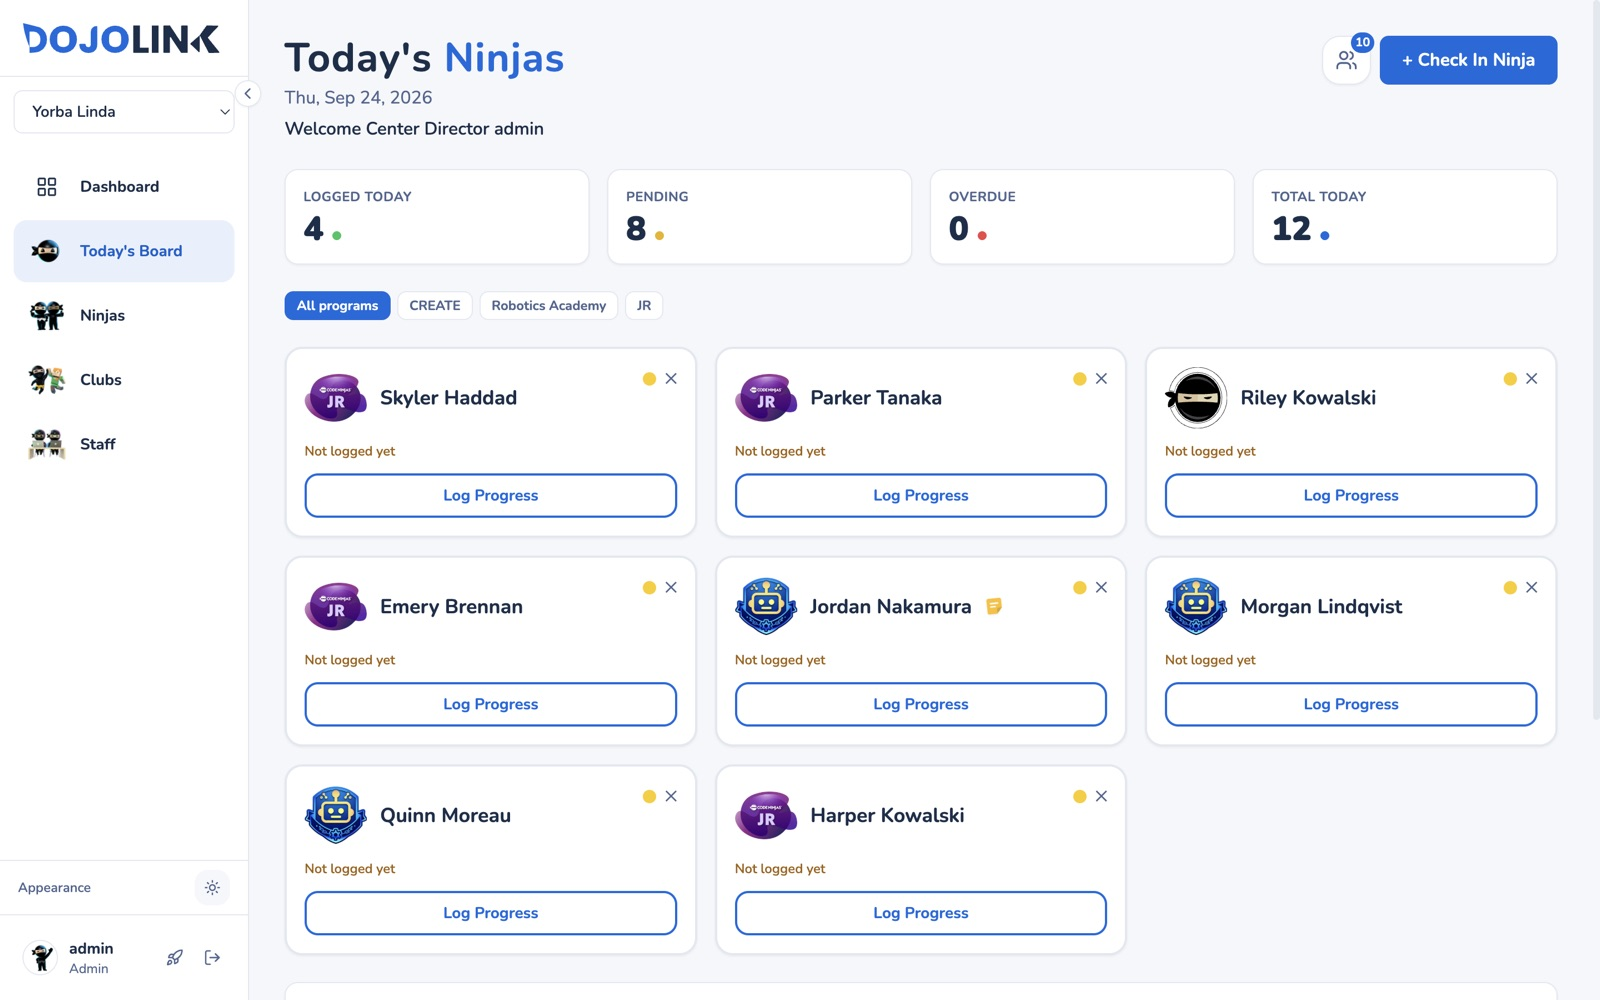
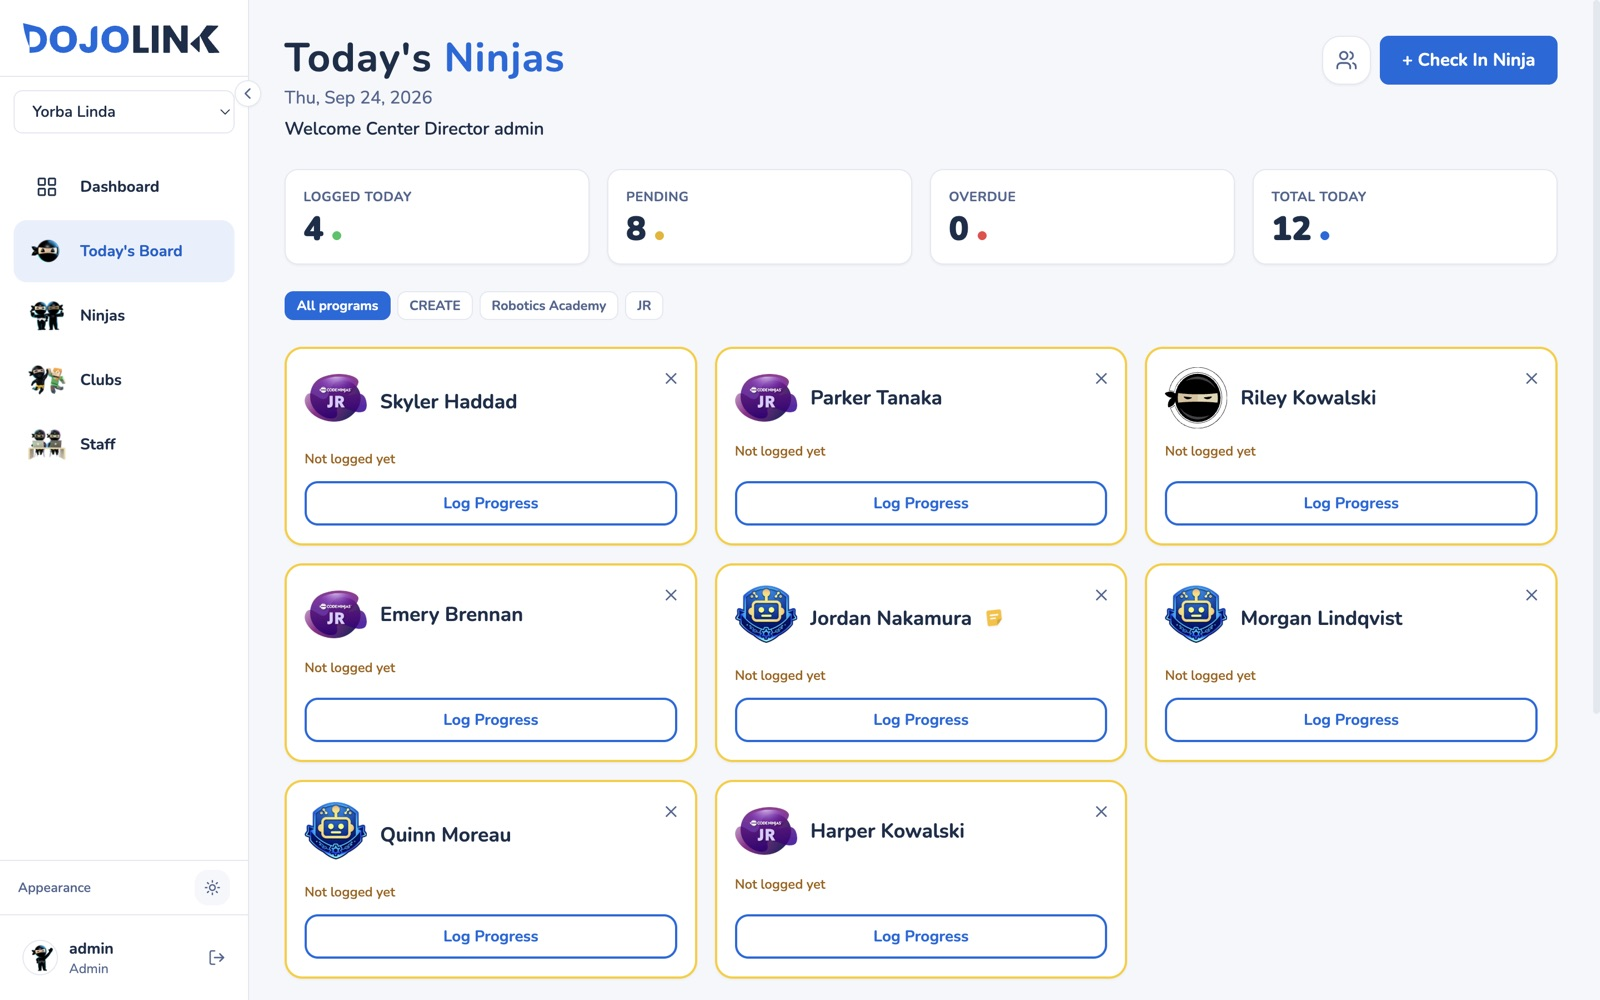
Help Center covers deleting an account, family settings, privacy and the new Reports tabs

Changed region(s): [[0.1875, 0.341, 0.9688, 0.992], [0.8438, 0.031, 0.875, 0.062]]

diff --git a/client/src/lib/docs.js b/client/src/lib/docs.js
@@ -156,7 +156,8 @@ export const DOCS = [
           { list: [
             '**Logged today**, **Pending** and **Overdue** at the top count where every card stands. Overdue is a check-in from an earlier day that was never logged.',
             'The program chips filter the board to one program.',
-            'A yellow dot on a card means it still needs a log. A note icon beside a name means there is a pinned note or a note from the parent. Hover or tap it to read.',
+            'The color around a card shows where it stands: **yellow** still needs a log, **red** is overdue from an earlier day, and **green** is logged.',
+            'A note icon beside a name means there is a pinned note or a note from the parent. Hover or tap it to read.',
             'The board refreshes itself every 30 seconds, so check-ins from the kiosk or another sensei appear without reloading.',
           ] },
         ],
@@ -165,6 +166,12 @@ export const DOCS = [
         title: 'Booked in MyStudio',
         blocks: [
           { p: 'If your center has connected MyStudio, the people icon beside **Check In Ninja** shows who is booked today. Tap a name to check them in. See [MyStudio](/docs/mystudio).' },
+        ],
+      },
+      {
+        title: 'Changing the class',
+        blocks: [
+          { p: 'Checked a ninja in under the wrong program? Hover over the program icon on their card until the pencil appears, select it, and pick the right class. Only classes the ninja is enrolled in are listed, and a class that is already logged cannot be changed.' },
         ],
       },
       {
@@ -460,20 +467,35 @@ export const DOCS = [
         title: 'Filters',
         blocks: [
           { p: 'Pick a **center** (or All centers), a **period** and a **program** at the top. Every tab uses the same filters, and they stay in the page link, so you can bookmark or share a view.' },
-          { p: 'Rolling periods like Last 4 weeks end yesterday, so a half-finished today does not drag the numbers down.' },
+          { p: 'The periods are **Last 4 weeks**, **Last 12 weeks**, **Last 6 months**, **This month**, **Last month** and **All time**. Rolling periods end yesterday, so a half-finished today does not drag the numbers down. This month includes today.' },
         ],
       },
       {
-        title: 'The four tabs',
+        title: 'The five tabs',
         blocks: [
           { list: [
-            '**Overview**: the headline numbers against the period before, ninjas each day, and a usual weekday.',
-            '**Attendance**: how many ninjas are in the room at once, by weekday and hour. Useful for staffing.',
+            '**Overview**: ninjas who came, visits, belt-ups and ninjas not seen in 30+ days, each against the period before, plus ninjas each day and a usual weekday. With All centers picked, the centers are shown side by side.',
+            '**Attendance**: how many ninjas are in the room at once, by weekday and hour, then an hour-by-hour view of a usual day or one date. Useful for staffing.',
+            '**Classes**: which programs and clubs the visits go to. For each program, how many are enrolled, how many came, and how often. For each club, sessions run, ninjas a session and when it last ran.',
             '**Students**: roster size, how often ninjas come, who has not been seen in 30+ days, and enrollment by program and belt.',
-            '**Progress**: belt-ups, sessions logged each week, and sessions logged by each sensei.',
+            '**Progress**: belt-ups, sessions logged each week, and sessions by sensei.',
           ] },
           { img: '/docs/reports-attendance.jpg', alt: 'The Attendance tab heatmap of ninjas in the room at once by weekday and hour' },
-          { img: '/docs/reports-progress.jpg', alt: 'The Progress tab with sessions logged and belt-ups each week' },
+        ],
+      },
+      {
+        title: 'Classes',
+        blocks: [
+          { img: '/docs/reports-classes.jpg', alt: 'The Classes tab with class visits, the busiest program, club visits and a table of programs' },
+          { p: 'A visit on this tab is a ninja in one class on one day, so a ninja who did CREATE and Robotics Academy on the same afternoon counts once in each. That is why these totals can run higher than Visits on the Overview.' },
+          { p: '**Share who came** is how many of the ninjas enrolled in a program came at least once in the period. A low number is worth a look.' },
+        ],
+      },
+      {
+        title: 'Sessions by sensei',
+        blocks: [
+          { img: '/docs/reports-progress.jpg', alt: 'The Progress tab with belt-ups, sessions logged each week and the ranked sessions by sensei table' },
+          { p: 'On the Progress tab, senseis are ranked by sessions logged, with clubs run breaking a tie. The top three get a gold, silver and bronze medal. Senseis level on both numbers share a place.' },
         ],
       },
       {
@@ -484,6 +506,7 @@ export const DOCS = [
             'A **belt-up** is the first log at a new belt, when the ninja already had logs at a lower one.',
             '**Not seen in 30+ days** lists ninjas on the roster with no visit or club in the last 30 days, counted from today, most recently seen first.',
             'A comparison is only shown when there is data for the whole previous period.',
+            'Clubs have no time of day, so the hour-by-hour views count check-ins only and say how many ninjas came just for a club.',
           ] },
           { img: '/docs/reports-students.jpg', alt: 'The Students tab with roster counts, the not seen list and how often ninjas come' },
         ],
@@ -651,7 +674,7 @@ export const DOCS = [
         title: 'Settings',
         blocks: [
           { img: '/docs/parent-settings.jpg', alt: 'Parent settings on Your ninjas, with three ninja characters to pick from for each child' },
-          { p: 'Select your name at the bottom of the sidebar to open **Settings**. **Your ninjas** lets each of your kids pick the ninja character that shows on their profile. You can also edit your details or delete your account there.' },
+          { p: 'Select your name at the bottom of the sidebar to open **Settings**. **Your ninjas** lets each of your kids pick the ninja character that shows on their profile. See [Family settings](/docs/family-settings) for everything else there.' },
         ],
       },
     ],
@@ -675,6 +698,52 @@ export const DOCS = [
             'Ask at the front desk.',
             'Check the welcome email or flyer from your center.',
           ] },
+        ],
+      },
+    ],
+  },
+
+  {
+    slug: 'family-settings',
+    group: 'families',
+    title: 'Family settings',
+    lede: 'Change your name and email, pick each ninja\'s character, sign out, or delete your account.',
+    image: { src: '/docs/parent-settings.jpg', alt: 'Parent settings with Edit profile, Your ninjas and Delete account', narrow: false },
+    sections: [
+      {
+        title: 'Opening settings',
+        blocks: [
+          { p: 'Select your name at the bottom of the sidebar. On a phone, tap **Account** in the bar at the bottom of the screen.' },
+        ],
+      },
+      {
+        title: 'Edit profile',
+        blocks: [
+          { list: [
+            '**First and last name**, shown to the senseis beside your ninja.',
+            '**Email**. You sign in with this and your center code, so if you change it, use the new email next time.',
+            '**Relationship**, such as Mom, Dad or Guardian, for the front desk.',
+            '**Center code** is shown for reference. Only your center can change it.',
+          ] },
+          { p: 'Select **Save Changes** when you are done.' },
+        ],
+      },
+      {
+        title: 'Your ninjas',
+        blocks: [
+          { p: 'Each of your kids can pick one of three ninja characters. The one you pick shows on their profile and on their card on the home page, dressed in their current belt.' },
+        ],
+      },
+      {
+        title: 'Signing out',
+        blocks: [
+          { p: 'Use **Sign Out** in Settings, or the sign-out icon beside your name in the sidebar. If you ticked **Keep me signed in on this device**, sign out before handing the device to someone else.' },
+        ],
+      },
+      {
+        title: 'Deleting your account',
+        blocks: [
+          { p: 'Choose **Delete account** in Settings. See [Deleting your account](/docs/delete-account) for exactly what is removed and what stays.' },
         ],
       },
     ],
@@ -704,6 +773,63 @@ export const DOCS = [
           { p: 'Open **Account → Password**, enter your current password and the new one twice.' },
         ],
       },
+      {
+        title: 'The account menu',
+        blocks: [
+          { p: 'Select your avatar at the bottom of the sidebar, or at the right of the top bar, to open a small menu with **Account**, **Help Center** and **Send feedback**.' },
+        ],
+      },
+      {
+        title: 'Signing out',
+        blocks: [
+          { p: 'Use the sign-out icon beside your name at the bottom of the sidebar. With the top bar, choose **Log out** from the account menu. On a phone, open **Account** and select **Sign Out**. Always sign out on a shared computer or tablet.' },
+        ],
+      },
+    ],
+  },
+  {
+    slug: 'delete-account',
+    group: 'account',
+    title: 'Deleting your account',
+    lede: 'How staff and families delete their own DojoLink account, and what happens to their data.',
+    sections: [
+      {
+        title: 'Staff accounts',
+        blocks: [
+          { steps: [
+            'Open **Account** and choose **Delete account**.',
+            'Pick the reason you are leaving. You can add a note if you like.',
+            'Type your **username** and **password**.',
+            'Select **Delete my account**, then **Yes, delete my account** to confirm.',
+          ] },
+          { p: 'Your account is removed and you are signed out straight away. The sessions you logged stay on each ninja\'s history, with no name on them, so their progress is not lost.' },
+          { tip: 'Just leaving one center, or taking a break? Ask your Center Director to archive your account instead. Archiving can be undone; deleting cannot.' },
+        ],
+      },
+      {
+        title: 'Family accounts',
+        blocks: [
+          { img: '/docs/parent-delete.jpg', alt: 'Parent settings on Delete account, asking for a reason, the center code and the email' },
+          { steps: [
+            'In the Parent Portal, select your name at the bottom of the sidebar to open **Settings**.',
+            'Choose **Delete account** and pick a reason.',
+            'Type your **center code** and **email**.',
+            'Select **Delete my account**, then confirm.',
+          ] },
+          { p: 'This deletes your parent account and removes your name, email, phone number and any note for the senseis from your ninjas\' records. Your ninjas\' belts and progress stay with the center, because they belong to their classes.' },
+          { tip: 'To stop your ninjas\' records being kept at all, ask your Center Director. Only the center can remove a ninja from its roster.' },
+        ],
+      },
+      {
+        title: 'Things to know',
+        blocks: [
+          { list: [
+            'Deleting cannot be undone. To use DojoLink again, a staff member needs a new account from their Center Director. A family can sign in again only once the center adds their email back to a ninja.',
+            'The reason you choose is kept without your name, so we can learn why people leave.',
+            'Administrator accounts cannot be deleted from the Account page.',
+          ] },
+        ],
+      },
     ],
   },
   {
@@ -715,19 +841,81 @@ export const DOCS = [
       {
         title: 'Light and dark',
         blocks: [
-          { p: 'Use the sun icon at the bottom of the sidebar to switch between light and dark. On a phone, open **Account → Appearance**.' },
+          { p: 'Use the sun icon at the bottom of the sidebar to switch between light and dark. On a phone, open **Account** and use the **Dark mode** switch.' },
         ],
       },
       {
         title: 'Navigation layout',
         blocks: [
-          { p: 'Under **Account → Display**, choose between a sidebar and a top bar.' },
+          { p: 'Under **Account → Display**, choose **Tokyo** for a sidebar down the left or **Hokkaido** for a bar across the top.' },
+        ],
+      },
+      {
+        title: 'Accent color',
+        blocks: [
+          { p: 'Turn on **Account → Experimental**, then open **Theme & color** to pick an accent color for buttons and highlights. It only changes DojoLink on this device.' },
         ],
       },
       {
         title: 'Reduced motion',
         blocks: [
           { p: 'If your device is set to reduce motion, DojoLink turns off its animations to match.' },
+        ],
+      },
+    ],
+  },
+
+  {
+    slug: 'install',
+    group: 'account',
+    title: 'Adding DojoLink to your home screen',
+    lede: 'Open DojoLink like an app, full screen, from your phone, tablet or computer.',
+    sections: [
+      {
+        title: 'iPhone and iPad',
+        blocks: [
+          { steps: [
+            'Open DojoLink in **Safari**.',
+            'Tap the **Share** button.',
+            'Tap **Add to Home Screen**, then **Add**.',
+          ] },
+        ],
+      },
+      {
+        title: 'Android',
+        blocks: [
+          { steps: [
+            'Open DojoLink in **Chrome**.',
+            'Tap the **⋮** menu.',
+            'Tap **Add to Home screen** or **Install app**.',
+          ] },
+        ],
+      },
+      {
+        title: 'Computer',
+        blocks: [
+          { p: 'In Chrome or Edge, select the install icon at the right of the address bar, or open the browser menu and choose **Install DojoLink**.' },
+        ],
+      },
+      {
+        title: 'Getting updates',
+        blocks: [
+          { p: 'DojoLink updates itself. If something new is not showing yet, close the app fully and open it again.' },
+        ],
+      },
+    ],
+  },
+  {
+    slug: 'whats-new',
+    group: 'account',
+    title: 'What\'s New',
+    lede: 'Release notes for every DojoLink update.',
+    sections: [
+      {
+        title: 'Seeing what changed',
+        blocks: [
+          { p: 'When DojoLink is updated, the release notes pop up the next time you sign in. You only see each one once.' },
+          { p: 'To read them again, or catch up on older updates, open **What\'s New** from the dashboard\'s quick links or by hovering over **Dashboard** in the sidebar.' },
         ],
       },
     ],
@@ -748,6 +936,8 @@ export const DOCS = [
             { q: 'A ninja did two classes today.', a: 'Check them in once per class. Each class gets its own card and its own log.' },
             { q: 'The board still shows a ninja from yesterday.', a: 'That check-in was never logged, so it counts as overdue. Log it, or remove it if they did not come.' },
             { q: 'Can I log a project from a different belt?', a: 'Yes. Add another project to the log and choose its own belt and level.' },
+            { q: 'I checked a ninja in under the wrong class.', a: 'Hover over the program icon on their card, select the pencil and pick the right class. See [Today\'s Board](/docs/todays-board).' },
+            { q: 'How do I delete my account?', a: 'Open **Account → Delete account**. See [Deleting your account](/docs/delete-account).' },
           ] },
         ],
       },
@@ -758,6 +948,8 @@ export const DOCS = [
             { q: 'Do I need a password?', a: 'No. You sign in with your center code and the email your center has on file.' },
             { q: 'It says my code and email do not match.', a: 'Check the code for typos, then try any other email you might have given the center. If it still does not work, ask your Center Director which email is on file.' },
             { q: 'Why has my ninja\'s belt not changed?', a: 'The portal updates when a sensei logs a session. If something looks wrong, ask at the front desk.' },
+            { q: 'I changed my email. How do I sign in now?', a: 'Use your center code and the new email.' },
+            { q: 'How do I delete my account?', a: 'Open **Settings → Delete account**. Your ninjas\' progress stays with the center. See [Deleting your account](/docs/delete-account).' },
           ] },
         ],
       },
@@ -779,6 +971,46 @@ export const DOCS = [
             { q: 'Booked ninjas are not showing on Today\'s Board.', a: 'Your MyStudio sign-in has probably run out. Follow the link on the board to sign in again.' },
             { q: 'A photo or cover image will not upload.', a: 'Try a smaller JPG or PNG. If it keeps failing, report it with the steps below.' },
           ] },
+        ],
+      },
+    ],
+  },
+  {
+    slug: 'privacy-data',
+    group: 'help',
+    title: 'Privacy and your data',
+    lede: 'What DojoLink keeps, who can see it, and how to have it removed.',
+    sections: [
+      {
+        title: 'What is kept',
+        blocks: [
+          { list: [
+            '**Ninjas**: name, birthday, programs, belts, check-ins and the sessions logged for them.',
+            '**Families**: parent name, email, phone number, relationship and any note for the senseis.',
+            '**Staff**: name, username, avatar, the centers they work at, and the sessions they logged.',
+          ] },
+        ],
+      },
+      {
+        title: 'Who can see it',
+        blocks: [
+          { list: [
+            'Staff see the ninjas at the centers they work at. Each center is kept separate.',
+            'Families see only their own ninjas, and only at the center their code belongs to.',
+            'Families never see staff notes on the center calendar, and a parent\'s note is only shown to staff.',
+          ] },
+        ],
+      },
+      {
+        title: 'Removing your data',
+        blocks: [
+          { p: 'Staff and families can delete their own accounts. See [Deleting your account](/docs/delete-account). To have a ninja removed from a center\'s records, ask that center\'s director.' },
+        ],
+      },
+      {
+        title: 'The fine print',
+        blocks: [
+          { p: 'The full [Privacy Policy](/privacy), [Terms of Use](/terms) and [Accessibility statement](/accessibility) are linked at the bottom of the home page.' },
         ],
       },
     ],
@@ -833,6 +1065,8 @@ export const DOCS = [
               ['Log', 'The record of what a ninja did in a session.'],
               ['Visit', 'A ninja at a center on a given day.'],
               ['Belt-up', 'Moving up to the next belt.'],
+              ['Overdue', 'A check-in from an earlier day that was never logged.'],
+              ['Archive', 'Taking a ninja or sensei off the active list without losing their history. It can be undone.'],
               ['Center code', 'The short code families use to sign in.'],
             ],
           } },
